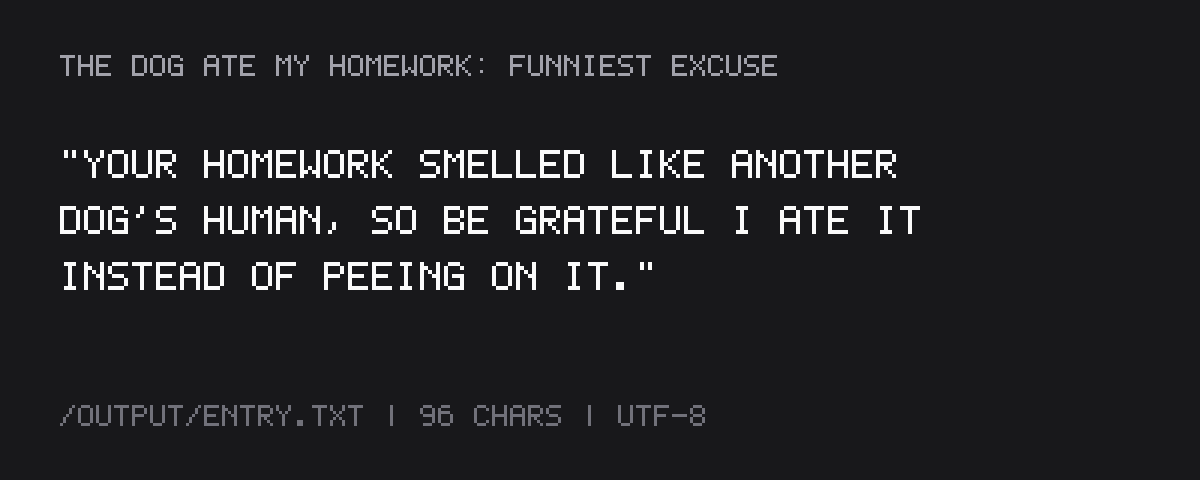
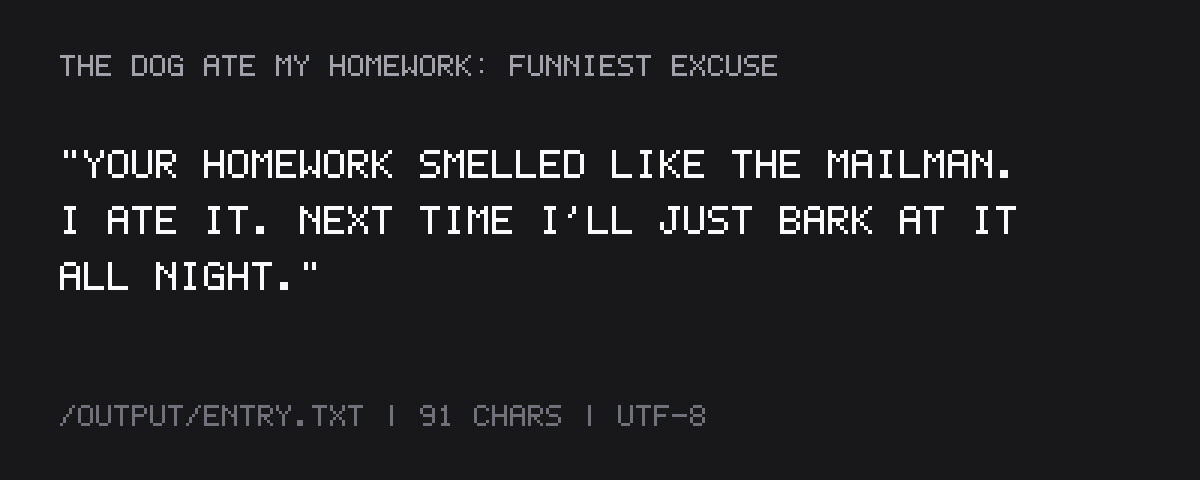
Blunt dog voice: smelled like the mailman, next time bark all night

diff --git a/main.ts b/main.ts
@@ -3,7 +3,7 @@ import { dirname } from "node:path";
 
 const ENTRY_PATH = "/output/entry.txt";
 const EXCUSE =
-  "Your homework smelled like another dog's human, so be grateful I ate it instead of peeing on it.";
+  "Your homework smelled like the mailman. I ate it. Next time I'll just bark at it all night.";
 
 mkdirSync(dirname(ENTRY_PATH), { recursive: true });
 writeFileSync(ENTRY_PATH, EXCUSE, "utf8");
